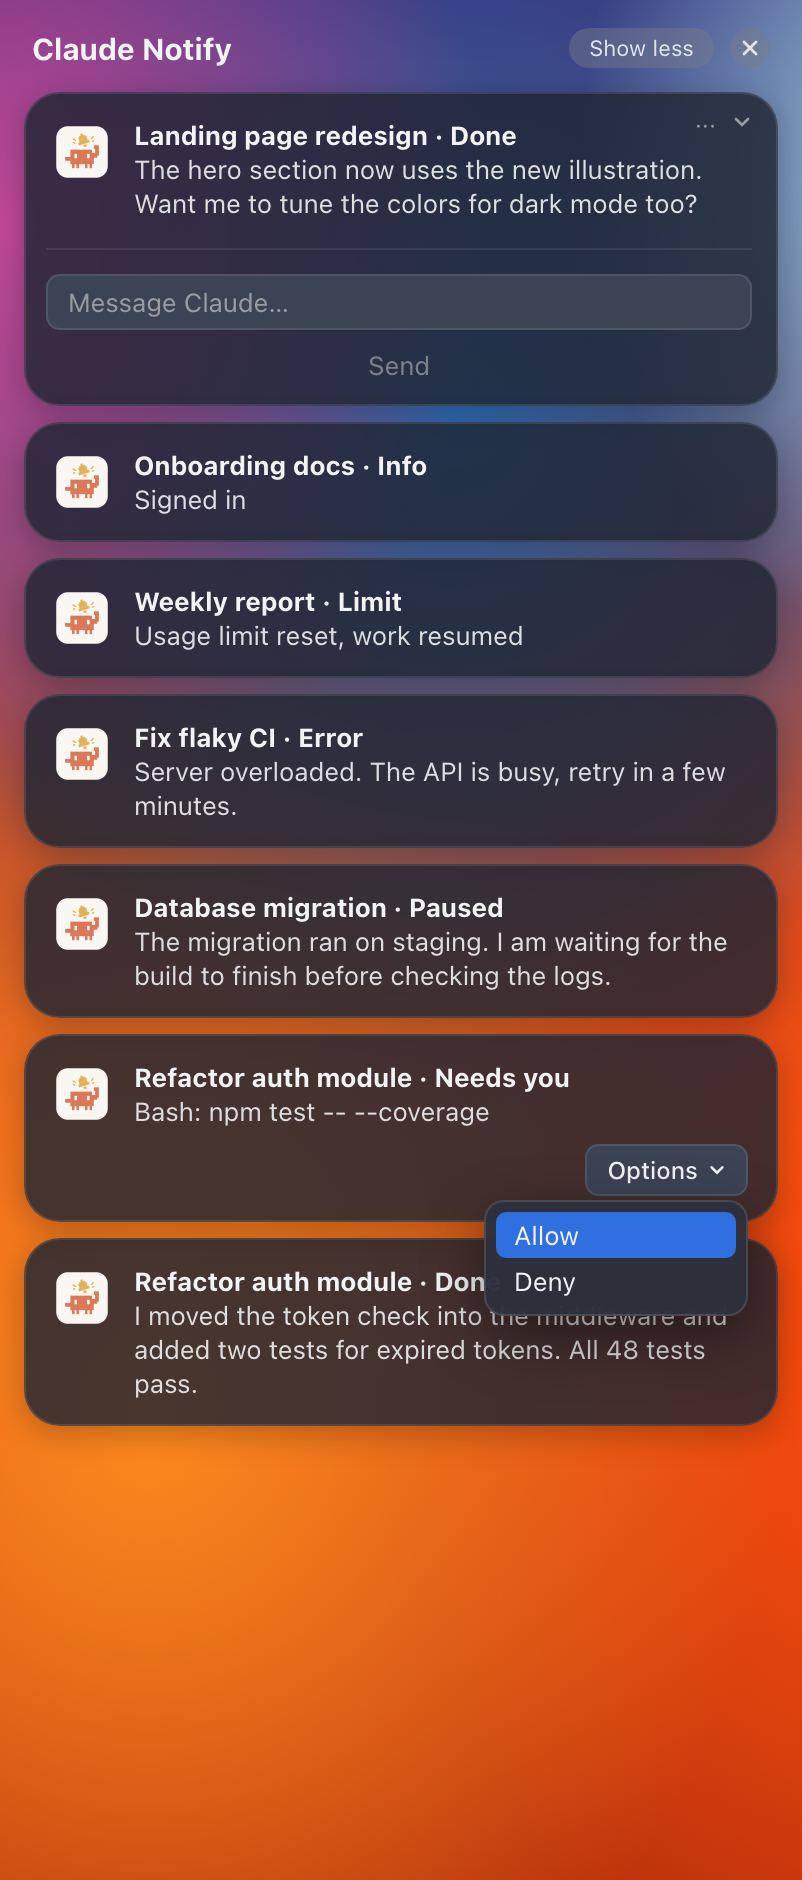
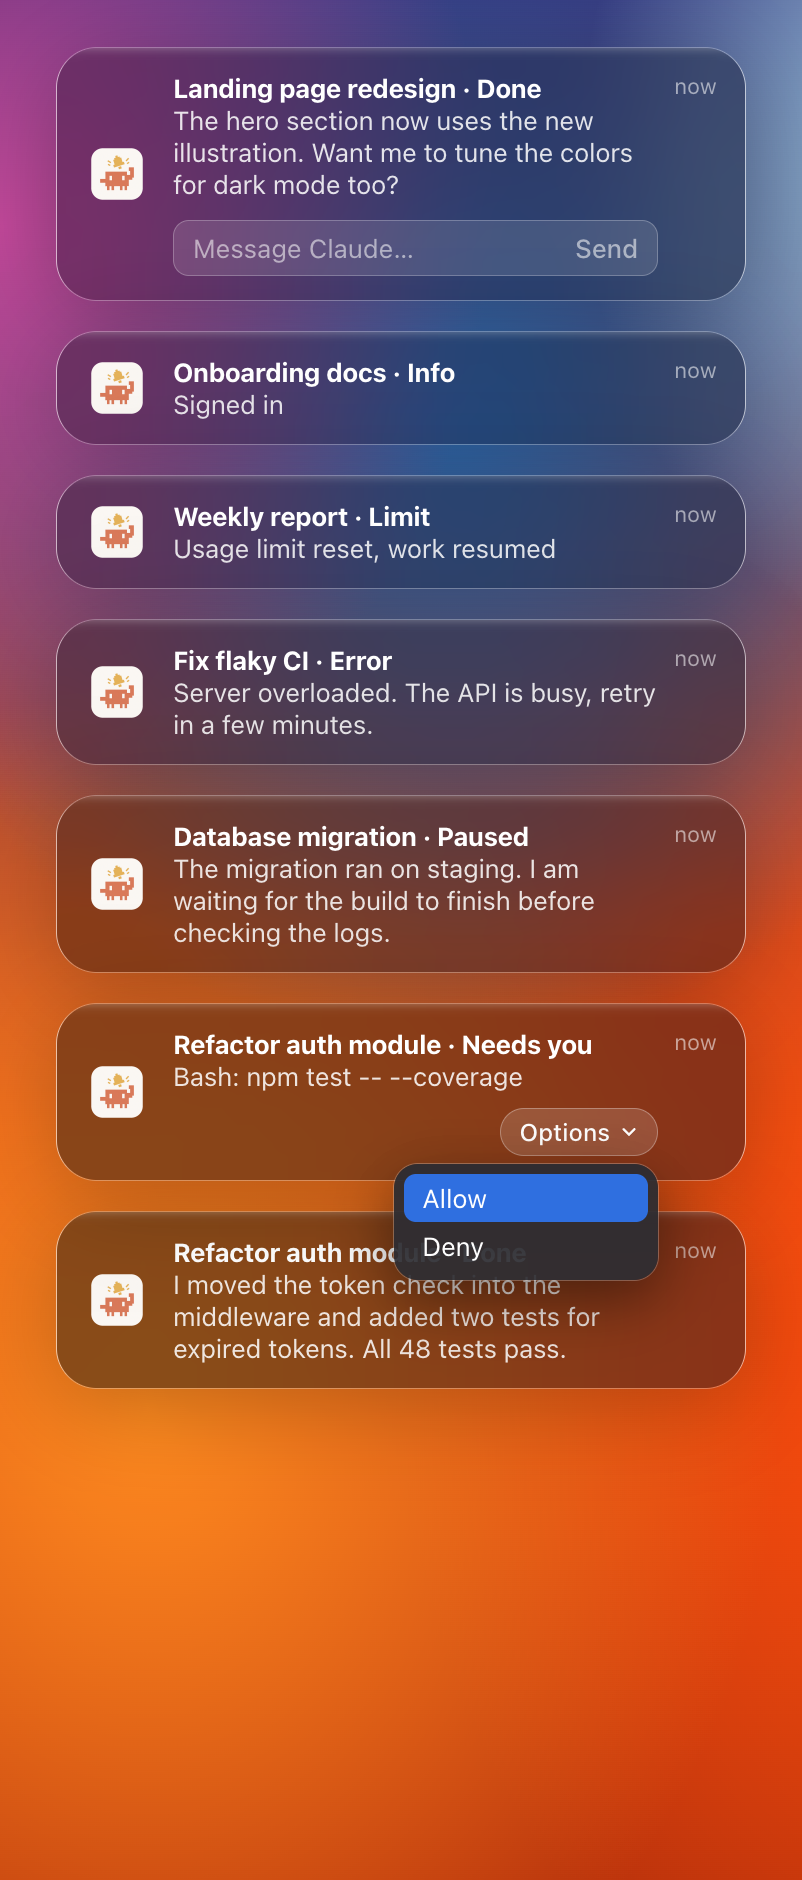
Rebuild the macOS mockup from Apple's macOS 27 notification kit

diff --git a/assets/demo/macos.html b/assets/demo/macos.html
@@ -1,17 +1,14 @@
 <!doctype html>
-<!-- Mockup for the README. Render: Chrome --headless=new --hide-scrollbars --force-device-scale-factor=2 --window-size=401,940 --screenshot=macos-stack.png macos.html -->
+<!-- Mockup for the README, after the macOS 27 notification in Apple's Figma kit. Render: Chrome --headless=new --hide-scrollbars --force-device-scale-factor=2 --window-size=401,940 --screenshot=macos-stack.png macos.html -->
 <html lang="en">
 <head>
 <meta charset="utf-8">
 <title>macOS notifications</title>
 <style>
   :root {
-    --card: rgba(30, 36, 50, 0.82);
-    --card-border: rgba(255, 255, 255, 0.10);
-    --text: #f2f3f5;
-    --body: #dddee0;
-    --field: #3c4355;
-    --muted: #9a9ca0;
+    --primary: #ffffff;
+    --secondary: rgba(255, 255, 255, 0.86);
+    --tertiary: rgba(255, 255, 255, 0.55);
   }
   html, body { margin: 0; }
   body {
@@ -26,77 +23,85 @@
     font-family: system-ui, -apple-system, BlinkMacSystemFont, sans-serif;
     -webkit-font-smoothing: antialiased;
   }
-  .wrap { padding: 14px 12px 12px; }
-  .top { display: flex; align-items: center; gap: 8px; padding: 0 4px 12px; }
-  .top h1 { margin: 0; flex: 1; font-size: 15px; font-weight: 700; color: var(--text); }
-  .pill { height: 20px; padding: 0 10px; border-radius: 10px; display: flex; align-items: center;
-          background: rgba(120, 125, 135, 0.45); color: #e4e5e8; font-size: 11px; }
-  .x { width: 20px; height: 20px; border-radius: 50%; display: flex; align-items: center; justify-content: center;
-       background: rgba(120, 125, 135, 0.45); color: #e4e5e8; }
-  .stack { display: flex; flex-direction: column; gap: 8px; }
-  .card {
-    position: relative; display: flex; gap: 10px; padding: 12px 14px 12px 12px;
-    background: var(--card); border: 1px solid var(--card-border); border-radius: 18px;
-    box-shadow: 0 4px 16px rgba(0, 0, 0, 0.25);
+  .stack { display: flex; flex-direction: column; align-items: center; gap: 16px; padding: 24px 16px; }
+  /* Liquid Glass notification: 344 wide, 20 radius, 12/14/12/10 padding, 8 gap */
+  .note {
+    position: relative; box-sizing: border-box; width: 344px;
+    display: flex; gap: 8px; padding: 12px 14px 12px 10px;
+    border-radius: 20px;
+    background: rgba(40, 40, 44, 0.55);
+    -webkit-backdrop-filter: blur(24px) saturate(1.6); backdrop-filter: blur(24px) saturate(1.6);
+    box-shadow:
+      1.25px 0 0 -0.75px rgba(255, 255, 255, 0.45),
+      -1.25px 0 0 -0.75px rgba(255, 255, 255, 0.45),
+      0 0 0 0.5px rgba(255, 255, 255, 0.30),
+      inset 0 40px 5px -40px rgba(255, 255, 255, 0.35),
+      0 8px 48px rgba(0, 0, 0, 0.25);
   }
-  .card img { width: 32px; height: 32px; border-radius: 8px; flex: none; margin-top: 1px; }
-  .txt { flex: 1; min-width: 0; }
-  .title { font-size: 13px; font-weight: 700; color: var(--text); line-height: 17px; }
-  .body { font-size: 13px; color: var(--body); line-height: 17px; }
-  .corner { position: absolute; top: 9px; right: 12px; display: flex; gap: 8px; color: var(--muted); font-size: 12px; line-height: 1; }
-  .reply { margin: 14px -2px 0 -44px; border-top: 1px solid rgba(255, 255, 255, 0.08); padding-top: 12px; }
-  .field { height: 26px; border-radius: 7px; background: var(--field); border: 1px solid rgba(255, 255, 255, 0.10);
-           display: flex; align-items: center; padding: 0 10px; font-size: 13px; color: var(--muted); }
-  .send { text-align: center; font-size: 13px; color: #7f828a; margin-top: 10px; }
+  .icon { display: flex; align-items: center; padding: 0 4px; align-self: stretch; }
+  .icon img { width: 32px; height: 32px; }
+  .text { flex: 1; min-width: 0; font-size: 13px; line-height: 16px; }
+  .title { font-weight: 700; letter-spacing: -0.26px; color: var(--primary); white-space: nowrap; overflow: hidden; text-overflow: ellipsis; }
+  .msg { letter-spacing: -0.104px; color: var(--secondary); }
+  .now { font-size: 11px; line-height: 14px; color: var(--tertiary); }
+  .field {
+    margin-top: 10px; height: 28px; box-sizing: border-box; padding: 0 10px; border-radius: 8px;
+    display: flex; align-items: center; justify-content: space-between;
+    background: rgba(255, 255, 255, 0.12); box-shadow: inset 0 0 0 0.5px rgba(255, 255, 255, 0.25);
+    font-size: 13px; color: var(--tertiary);
+  }
+  .field b { font-weight: 500; color: var(--tertiary); }
   .opts-row { position: relative; display: flex; justify-content: flex-end; margin-top: 8px; }
-  .opts { height: 24px; padding: 0 10px; border-radius: 7px; background: var(--field); border: 1px solid rgba(255, 255, 255, 0.10);
-          display: flex; align-items: center; gap: 5px; font-size: 12px; font-weight: 500; color: var(--text); }
-  .menu { position: absolute; top: 28px; right: 0; width: 132px; padding: 5px; box-sizing: border-box;
-          background: rgba(44, 48, 60, 0.97); border: 1px solid rgba(255, 255, 255, 0.12); border-radius: 10px;
-          box-shadow: 0 10px 30px rgba(0, 0, 0, 0.45); }
-  .item { padding: 4px 9px; border-radius: 5px; font-size: 13px; color: var(--text); }
+  .opts {
+    height: 24px; padding: 0 10px; border-radius: 12px; display: flex; align-items: center; gap: 5px;
+    background: rgba(255, 255, 255, 0.14); box-shadow: inset 0 0 0 0.5px rgba(255, 255, 255, 0.3);
+    font-size: 12px; font-weight: 500; color: var(--primary);
+  }
+  .menu {
+    position: absolute; top: 28px; right: 0; width: 132px; padding: 5px; box-sizing: border-box; z-index: 3;
+    background: rgba(44, 44, 50, 0.92); border-radius: 12px;
+    -webkit-backdrop-filter: blur(24px); backdrop-filter: blur(24px);
+    box-shadow: 0 0 0 0.5px rgba(255, 255, 255, 0.25), 0 10px 30px rgba(0, 0, 0, 0.45);
+  }
+  .item { padding: 4px 9px; border-radius: 6px; font-size: 13px; color: var(--primary); }
   .item.on { background: #2f6fe0; }
 </style>
 </head>
 <body>
-<div class="wrap">
-  <div class="top">
-    <h1>Claude Notify</h1>
-    <span class="pill">Show less</span>
-    <span class="x"><svg width="8" height="8" viewBox="0 0 8 8" aria-hidden="true"><path d="M1 1l6 6M7 1l-6 6" stroke="currentColor" stroke-width="1.4" stroke-linecap="round"/></svg></span>
-  </div>
+<div class="stack">
 
-  <div class="stack">
-    <div class="card">
-      <img src="../icon/app-icon.png" alt="">
-      <div class="txt">
-        <div class="title">Landing page redesign · Done</div>
-        <div class="body">The hero section now uses the new illustration. Want me to tune the colors for dark mode too?</div>
-        <div class="reply"><div class="field">Message Claude…</div><div class="send">Send</div></div>
-      </div>
-      <div class="corner"><span>···</span><svg width="10" height="10" viewBox="0 0 10 10" aria-hidden="true"><path d="M2 3.5l3 3 3-3" fill="none" stroke="currentColor" stroke-width="1.3" stroke-linecap="round"/></svg></div>
-    </div>
+  <div class="note"><div class="icon"><img src="../icon/app-icon.png" alt=""></div>
+    <div class="text"><div class="title">Landing page redesign · Done</div>
+      <div class="msg">The hero section now uses the new illustration. Want me to tune the colors for dark mode too?</div>
+      <div class="field">Message Claude…<b>Send</b></div></div>
+    <div class="now">now</div></div>
 
-    <div class="card"><img src="../icon/app-icon.png" alt=""><div class="txt">
-      <div class="title">Onboarding docs · Info</div><div class="body">Signed in</div></div></div>
+  <div class="note"><div class="icon"><img src="../icon/app-icon.png" alt=""></div>
+    <div class="text"><div class="title">Onboarding docs · Info</div><div class="msg">Signed in</div></div>
+    <div class="now">now</div></div>
 
-    <div class="card"><img src="../icon/app-icon.png" alt=""><div class="txt">
-      <div class="title">Weekly report · Limit</div><div class="body">Usage limit reset, work resumed</div></div></div>
+  <div class="note"><div class="icon"><img src="../icon/app-icon.png" alt=""></div>
+    <div class="text"><div class="title">Weekly report · Limit</div><div class="msg">Usage limit reset, work resumed</div></div>
+    <div class="now">now</div></div>
 
-    <div class="card"><img src="../icon/app-icon.png" alt=""><div class="txt">
-      <div class="title">Fix flaky CI · Error</div><div class="body">Server overloaded. The API is busy, retry in a few minutes.</div></div></div>
+  <div class="note"><div class="icon"><img src="../icon/app-icon.png" alt=""></div>
+    <div class="text"><div class="title">Fix flaky CI · Error</div><div class="msg">Server overloaded. The API is busy, retry in a few minutes.</div></div>
+    <div class="now">now</div></div>
 
-    <div class="card"><img src="../icon/app-icon.png" alt=""><div class="txt">
-      <div class="title">Database migration · Paused</div><div class="body">The migration ran on staging. I am waiting for the build to finish before checking the logs.</div></div></div>
+  <div class="note"><div class="icon"><img src="../icon/app-icon.png" alt=""></div>
+    <div class="text"><div class="title">Database migration · Paused</div><div class="msg">The migration ran on staging. I am waiting for the build to finish before checking the logs.</div></div>
+    <div class="now">now</div></div>
 
-    <div class="card" style="z-index: 2"><img src="../icon/app-icon.png" alt=""><div class="txt">
-      <div class="title">Refactor auth module · Needs you</div><div class="body">Bash: npm test -- --coverage</div>
+  <div class="note" style="z-index: 2"><div class="icon"><img src="../icon/app-icon.png" alt=""></div>
+    <div class="text"><div class="title">Refactor auth module · Needs you</div><div class="msg">Bash: npm test -- --coverage</div>
       <div class="opts-row"><span class="opts">Options <svg width="9" height="9" viewBox="0 0 10 10" aria-hidden="true"><path d="M2 3.5l3 3 3-3" fill="none" stroke="currentColor" stroke-width="1.4" stroke-linecap="round"/></svg></span>
-        <div class="menu"><div class="item on">Allow</div><div class="item">Deny</div></div></div></div></div>
+        <div class="menu"><div class="item on">Allow</div><div class="item">Deny</div></div></div></div>
+    <div class="now">now</div></div>
 
-    <div class="card"><img src="../icon/app-icon.png" alt=""><div class="txt">
-      <div class="title">Refactor auth module · Done</div><div class="body">I moved the token check into the middleware and added two tests for expired tokens. All 48 tests pass.</div></div></div>
-  </div>
+  <div class="note"><div class="icon"><img src="../icon/app-icon.png" alt=""></div>
+    <div class="text"><div class="title">Refactor auth module · Done</div><div class="msg">I moved the token check into the middleware and added two tests for expired tokens. All 48 tests pass.</div></div>
+    <div class="now">now</div></div>
+
 </div>
 </body>
 </html>
